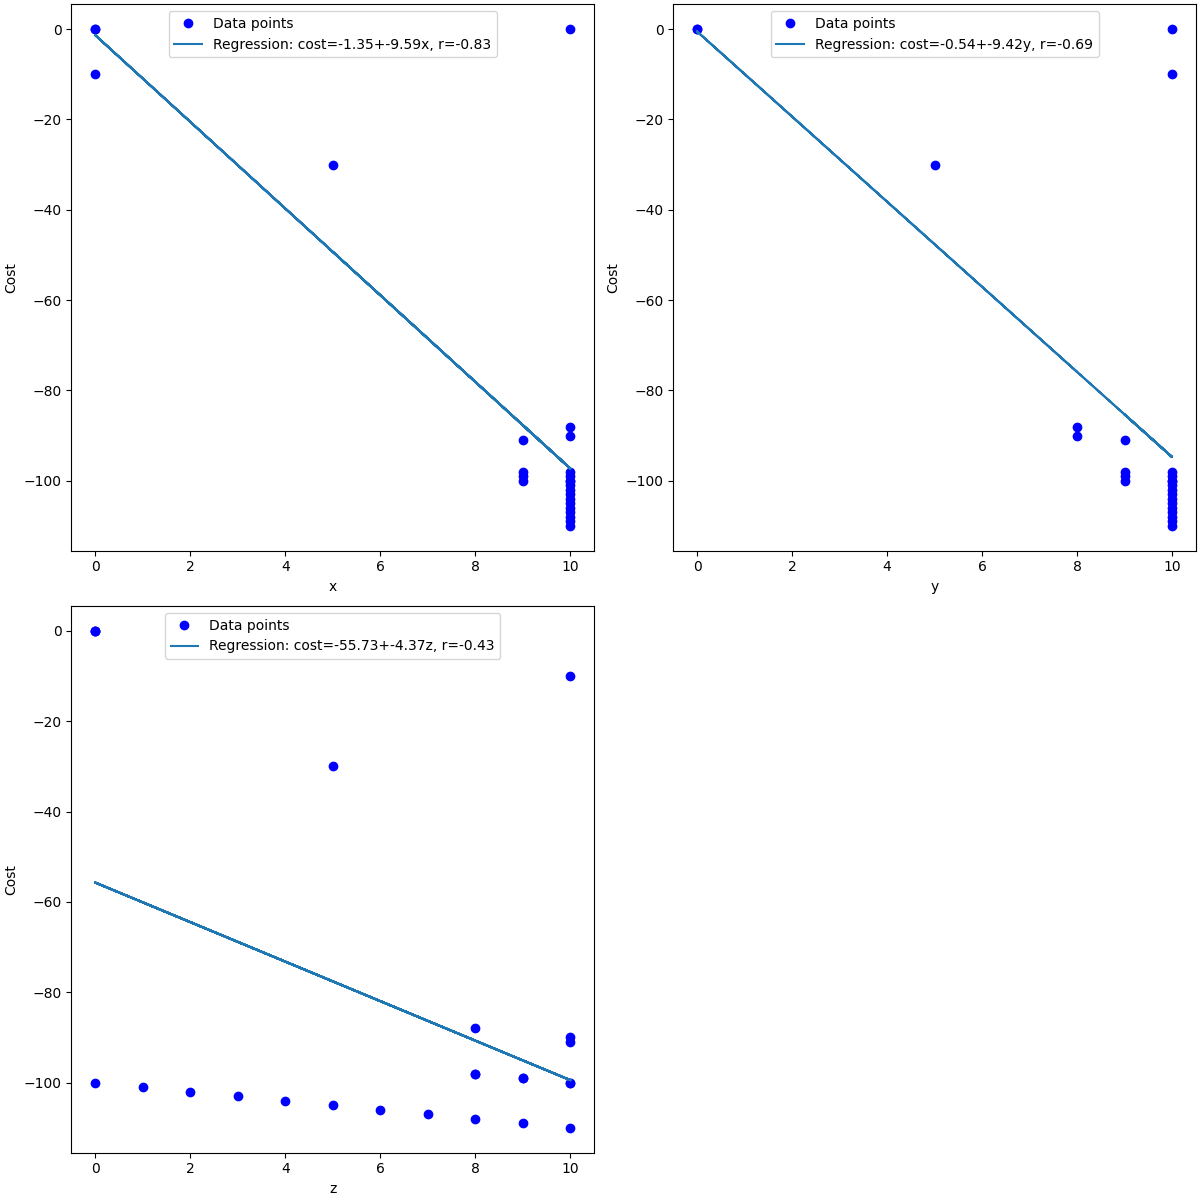
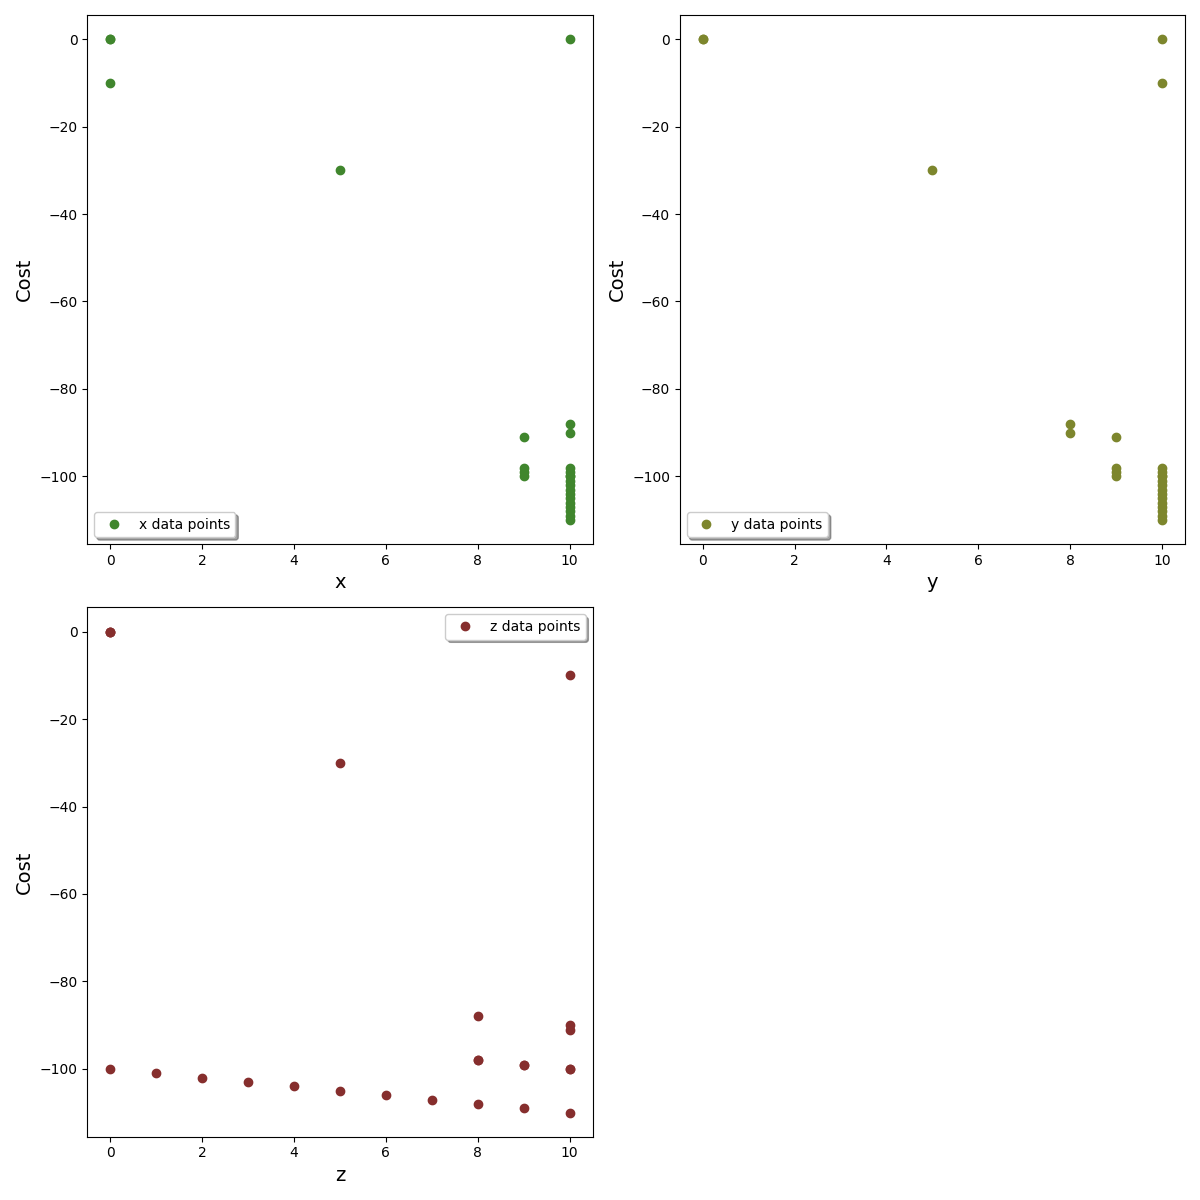
avoid interpolation, draw minimums only

diff --git a/plecoptera/plot.py b/plecoptera/plot.py
@@ -1,14 +1,15 @@
 import pathlib
 from typing import Any, Callable
 
-import matplotlib.pyplot as plt
 import matplotlib.axes
 import matplotlib.image
+import matplotlib.pyplot as plt
 import matplotlib.ticker
 import numpy as np
+import pandas as pd
 import scipy.interpolate
 import scipy.stats
-import pandas as pd
+from colorhash import ColorHash
 
 from plecoptera.report import Report
 
@@ -48,21 +49,24 @@ class Renderer():
             else:
                 axes[i].axis('off')
 
+        fig.tight_layout()
+
         figure_path = self.__root_dir.joinpath("correlation.png")
         fig.savefig(figure_path)
 
     def __render_correlation(self, ax: matplotlib.axes.Axes, col_name: str):
-        x = self.__df[col_name]
-        y = self.__df['cost']
-        slope, intercept, r, p, stderr = scipy.stats.linregress(x, y)
+        df = pd.DataFrame({col_name: self.__df[col_name], "cost": self.__df['cost']})
 
-        line = f'Regression: cost={intercept:.2f}+{slope:.2f}{col_name}, r={r:.2f}'
+        # select the minimums
+        data = df.groupby(col_name)['cost'].agg(lambda arg: arg.min()).reset_index()
 
-        ax.plot(x, y, linewidth=0, marker='o', label='Data points', color='blue')
-        ax.plot(x, intercept + slope * x, label=line)
-        ax.set_xlabel(col_name)
-        ax.set_ylabel('Cost')
-        ax.legend(facecolor='white', loc='upper center')
+        color = ColorHash(col_name).hex
+        ax.plot(data[col_name], data["cost"], linewidth=0, marker='o', label=f'{col_name} data points', color=color)
+
+        ax.set_xlabel(col_name, fontsize=14)
+        ax.set_ylabel('Cost function', fontsize=14)
+
+        ax.legend(fancybox=True, shadow=True)
 
     def pairwise_heatmap_matrix(self):
         column_names = [column for column in self.__df.columns if column != 'cost']
@@ -85,6 +89,8 @@ class Renderer():
                 im = self.__render_pairwise_heatmap(ax, col_name_1, col_name_2)
 
         fig.colorbar(im, ax=axes, shrink=0.6)
+
+        fig.tight_layout()
 
         figure_path = self.__root_dir.joinpath("pairwise_heatmap_matrix.png")
         fig.savefig(figure_path)
@@ -126,11 +132,11 @@ class Renderer():
         # draw point with optimum
         opt_x, opt_y, opt_val = self.__derive_optimum_coordinates(col_name_1, col_name_2, x_scale, y_scale)
         ax.scatter(opt_x, opt_y, color='red', marker='o', s=100)
-        ax.annotate(f"{opt_val}", (opt_x, opt_y))
+        ax.annotate("{:.2f}".format(opt_val), (opt_x, opt_y))
 
         # assign axes labels
-        ax.set_xlabel(col_name_1)
-        ax.set_ylabel(col_name_2)
+        ax.set_xlabel(col_name_1, fontsize=14)
+        ax.set_ylabel(col_name_2, fontsize=14)
 
         return im
 
@@ -141,7 +147,7 @@ class Renderer():
             if tick.is_integer():
                 return str(int(tick))
             else:
-                # FIXME: it's a hodgie (индусский) code now - write smart algorithm instead 
+                # FIXME: it's a hodgie (индусский) code now - write smart algorithm instead of that
                 if tick >= 100:
                     return str(int(tick))
                 elif tick >= 10:

diff --git a/setup.py b/setup.py
@@ -22,7 +22,8 @@ setup(name='plecoptera',
           "urllib3==1.26.7",
           "pandas==1.3.5",
           "matplotlib==3.5.1",
-          "scipy==1.7.3"
+          "scipy==1.7.3",
+          "colorhash==1.0.4"
       ),
       license_file="LICENSE",
       package_dir={

diff --git a/README.md b/README.md
@@ -201,9 +201,15 @@ z: 10
 ### Analysis
 
 Aside from the discovered optimum value, Plecoptera provides you 
-with several plots that may give some inspiration 
+with several plots that may give you some inspiration 
 when exploring the cost function.
 You can find them in `/tmp/plecoptera_$timestamp` directory.
+
+Please note that on each of these plots not all data points are depicted,
+but only the minimum reached in this point.
+For a particular value of a certain parameter, optimizer may do several cost function evaluations
+(with different values of other parameters), but only the minimal  
+value of cost function is shown on the plot.
 
 #### Linear regression plot
 
@@ -216,7 +222,7 @@ parameter to the final value of a cost function.
 #### Pairwise heatmaps
 
 On each of these plots cost function values are "mapped" to the axes
-formed by all possible combinations of parameters. 
+formed by all possible pairs of parameters. 
 This matrix of plots helps to find out the nature of interaction
 of parameters between each other (and their influence on the cost function).
 
